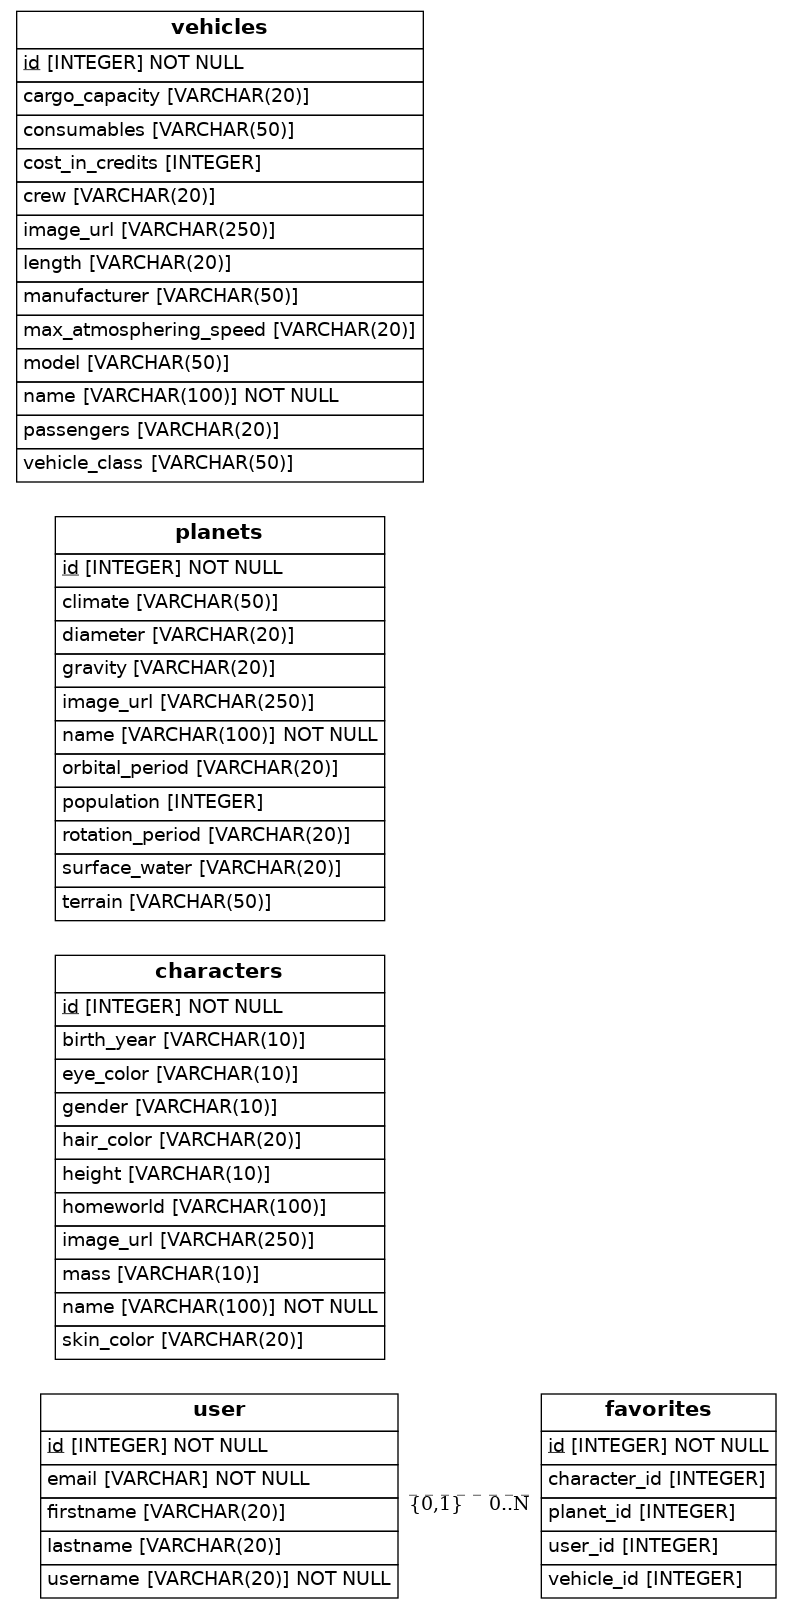
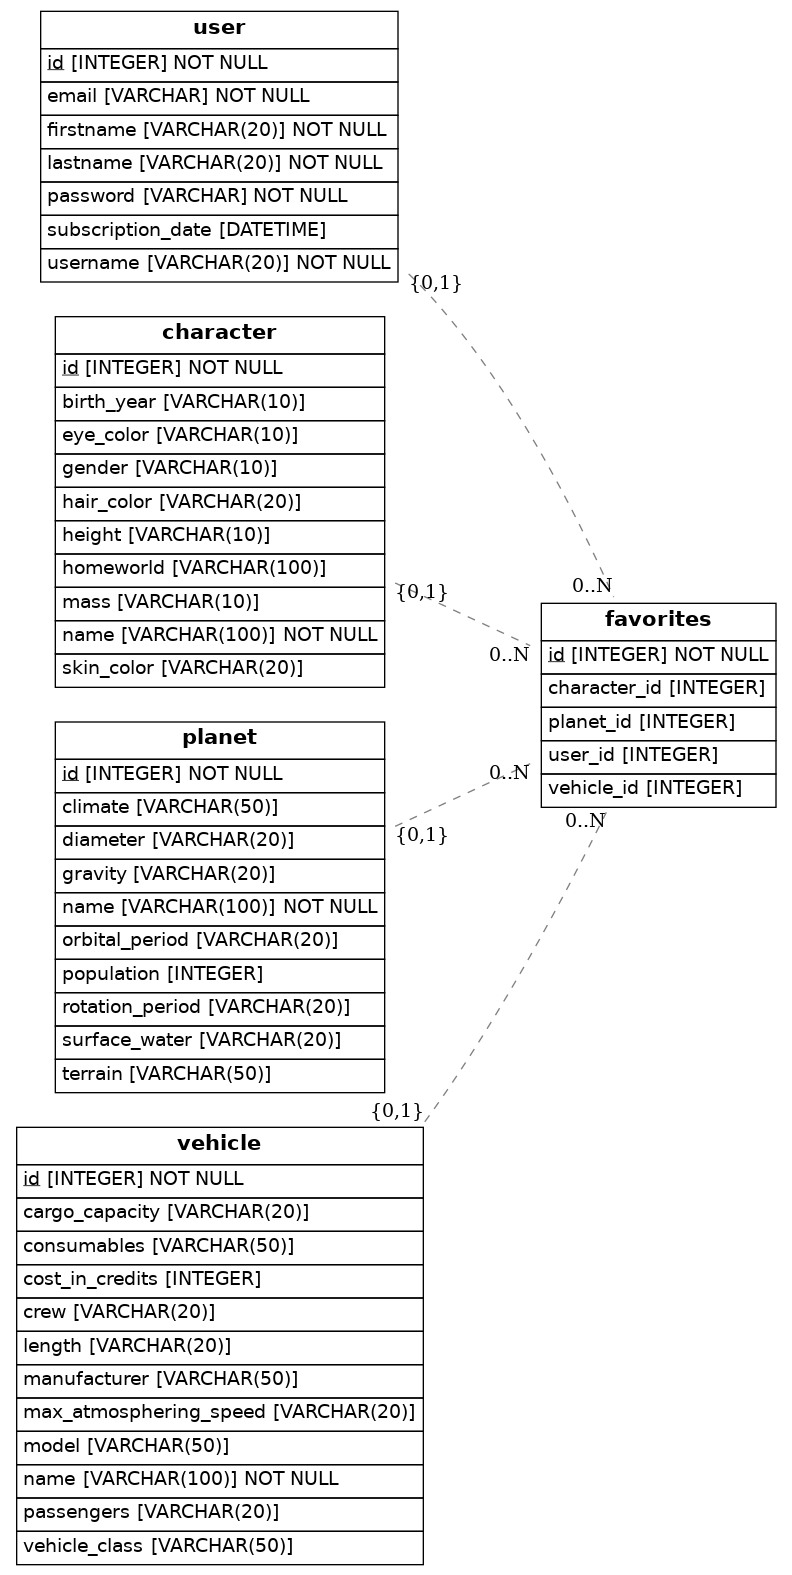
acabado

diff --git a/src/models.py b/src/models.py
@@ -8,11 +8,6 @@ from datetime import datetime
 
 Base = declarative_base()
 
-# !!!
-# No estoy seguro de que informacion es necesaria en cada tabla ni hace falta una tabla de imagenes aparte. 
-# He dado por hecho que seria una url de una imagen de internet
-# !!!
-
 class User(Base):
     __tablename__ = 'user'
     id = Column(Integer, primary_key=True)
@@ -22,6 +17,16 @@ class User(Base):
     email = Column(String, nullable=False, unique=True)
     password = Column(String, nullable=False)
     subscription_date = Column(DateTime, default=datetime.utcnow)
+
+    def serialize(self):
+        return {
+            "id": self.id,
+            "username": self.username,
+            "firstname": self.firstname,
+            "lastname": self.lastname,
+            "email": self.email,
+            "subscription_date": self.subscription_date.isoformat(),
+        }
 
 class Character(Base):
     __tablename__ = 'character'
@@ -35,10 +40,20 @@ class Character(Base):
     mass = Column(String(10))
     skin_color = Column(String(20))
     homeworld = Column(String(100))
-    created = Column(DateTime)
-    edited = Column(DateTime)
-    image_url = Column(String(250))
-    url = Column(String(250))
+
+    def serialize(self):
+        return {
+            "id": self.id,
+            "name": self.name,
+            "birth_year": self.birth_year,
+            "eye_color": self.eye_color,
+            "gender": self.gender,
+            "hair_color": self.hair_color,
+            "height": self.height,
+            "mass": self.mass,
+            "skin_color": self.skin_color,
+            "homeworld": self.homeworld,
+        }
 
 class Planet(Base):
     __tablename__ = 'planet'
@@ -52,10 +67,20 @@ class Planet(Base):
     rotation_period = Column(String(20))
     surface_water = Column(String(20))
     terrain = Column(String(50))
-    created = Column(DateTime)
-    edited = Column(DateTime)
-    image_url = Column(String(250))
-    url = Column(String(250))
+
+    def serialize(self):
+        return {
+            "id": self.id,
+            "name": self.name,
+            "climate": self.climate,
+            "diameter": self.diameter,
+            "gravity": self.gravity,
+            "orbital_period": self.orbital_period,
+            "population": self.population,
+            "rotation_period": self.rotation_period,
+            "surface_water": self.surface_water,
+            "terrain": self.terrain,
+        }
 
 class Vehicle(Base):
     __tablename__ = 'vehicle'
@@ -71,10 +96,22 @@ class Vehicle(Base):
     cargo_capacity = Column(String(20))
     consumables = Column(String(50))
     vehicle_class = Column(String(50))
-    created = Column(DateTime)
-    edited = Column(DateTime)
-    image_url = Column(String(250))
-    url = Column(String(250))
+
+    def serialize(self):
+        return {
+            "id": self.id,
+            "name": self.name,
+            "model": self.model,
+            "manufacturer": self.manufacturer,
+            "cost_in_credits": self.cost_in_credits,
+            "length": self.length,
+            "max_atmosphering_speed": self.max_atmosphering_speed,
+            "crew": self.crew,
+            "passengers": self.passengers,
+            "cargo_capacity": self.cargo_capacity,
+            "consumables": self.consumables,
+            "vehicle_class": self.vehicle_class,
+        }
 
 class Favorites(Base):
     __tablename__ = 'favorites'   
@@ -89,7 +126,16 @@ class Favorites(Base):
     planet = relationship('Planet', backref='favorites')
     vehicle = relationship('Vehicle', backref='favorites')
 
-## Draw from SQLAlchemy base
+    def serialize(self):
+        return {
+            "id": self.id,
+            "user_id": self.user_id,
+            "character_id": self.character_id,
+            "planet_id": self.planet_id,
+            "vehicle_id": self.vehicle_id,
+        }
+
+# Draw from SQLAlchemy base
 try:
     result = render_er(Base, 'diagram.png')
     print("Success! Check the diagram.png file")
